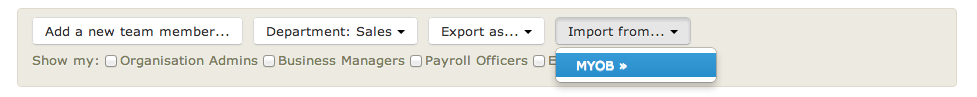
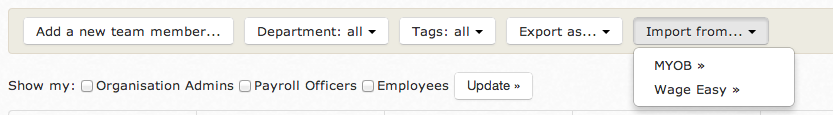
add wage easy user imports

diff --git a/_posts/staff/2013-02-06-importing.md b/_posts/staff/2013-02-06-importing.md
@@ -49,11 +49,11 @@ There are three important rules to keep in mind when exporting your data;
 
 From the [staff page](../team/), follow the prompts to get to the Import From MYOB page.
 
-![Importing to MYOB - navigation](/img/users/myob_navigation.png)
+![Importing from MYOB - navigation](/img/users/myob_navigation.png)
 
-Once you've exported your staff from MYOB, click the *Browse* button, and find where you saved the file to your computer. The button might look slightly different to how it does in the image below, depending on your web browser.
+Once you've exported your staff from MYOB, click the *Browse* button, and find where you saved the file to your computer. The button might look slightly different to how it does in the image below, depending on your web browser. You can also apply one or more [tags](../team/#fields_available) to the staff that will be imported by entering them into the text box, separated by commas.
 
-![Importing to MYOB - the page](/img/users/myob_import_page.png)
+![Importing from MYOB - the page](/img/users/user_import_form.png)
 
 Click the *Import Staff* button when you're ready. Importing can take a minute or two, depending on how many staff you have, so be patient &mdash; and **don't** click the button again!
 
@@ -63,9 +63,32 @@ When the import is complete you'll see your new list of staff. If there were any
 
 ### Exporting from Wage Easy
 
+PayAus can process staff information from a Wage Easy *Employee Report*. The exact export process depends on your version of Wage Easy, but they are all similar.
+
+1. Go to the `HR` menu.
+2. Click `User Defined Queries`, then choose the `Company Current Employee Report`.
+3. Select the relevant financial period. Usually you will only want to show current staff.
+4. Right click on the highlighted fields, and follow the prompt to export your data as a **`CSV`**.
+5. Save the `.csv` file somewhere on your computer.
+
+![Step 2 - The report to select](/img/users/wageeasy_export.png)
+
 ### Importing into PayAus
 
-<hr />
+From the [staff page](../team/), follow the prompts to get to the Import From Wage Easy page.
+
+![Importing from Wage Easy - navigation](/img/users/myob_navigation.png)
+
+Once you've exported your staff from Wage Easy, click the *Browse* button, and find where you saved the file to your computer. The button might look slightly different to how it does in the image below, depending on your web browser. You can also apply one or more [tags](../team/#fields_available) to the staff that will be imported by entering them into the text box, separated by commas.
+
+![Importing from Wage Easy - the page](/img/users/user_import_form.png)
+
+Click the *Import Staff* button when you're ready. Importing can take a minute or two, depending on how many staff you have, so be patient &mdash; and **don't** click the button again!
+
+When the import is complete you'll see your new list of staff. If there were any errors in the import, PayAus will let you know what went wrong, and which line of the Wage Easy file was the culprit. The errors can be corrected by editing the Wage Easy `.csv` file, though if there are only a few that didn't work, it may be easier to [add them manually](../team/#adding_new_team_members).
+
+## Using Other Systems
+
 <div class="alert alert-block">
 	<i class="icon-wrench"> </i>
 	<p>

diff --git a/_posts/staff/2013-02-06-team.md b/_posts/staff/2013-02-06-team.md
@@ -53,6 +53,7 @@ The information available for edit is:
 * **Name**: used to identify the team member throughout PayAus. Because PayAus can export reports and other data to work with other accounting software, it's a good idea to spell this exactly as you did in your accounting package.
 * **Employee Number**: this is used to identify the team member when working with certain accounting packages, such as MYOB. It is also useful for your own reference. Despite the name, you can also enter letters &mdash; in fact, you can use any character you like!
 * **Department**: the department the team member is in. See the [departments guide](../departments/) for more information.
+* **Tags**: you can apply one or more tags to a team member, which can be used for arbitrary filtering. For example, if you run multiple copies of an accounting package (eg. MYOB) in your business, it may be useful to tag some staff as "MYOB One" and others as "MYOB Two", so that you can [export timesheets](../../timesheets/exports/) accordingly.
 * **Passcode**: the passcode used by the employee to clock in. [Read more about PayAus' clock-in systems.]({% lead_post portals url %})
 * **Hourly Rate**: the rate the employlee is paid per hour. This is used to for calculations such as the cost of the employee's shift in a timesheet. This is an estimate and generally shouldn't be used as a source of truth.
 * **Phone Number**: the team member's phone number. This is the number used to contact this team member when sending a [notification]({% lead_post notifications url %}), so it *should* be a mobile number. This is also useful for your own reference.
